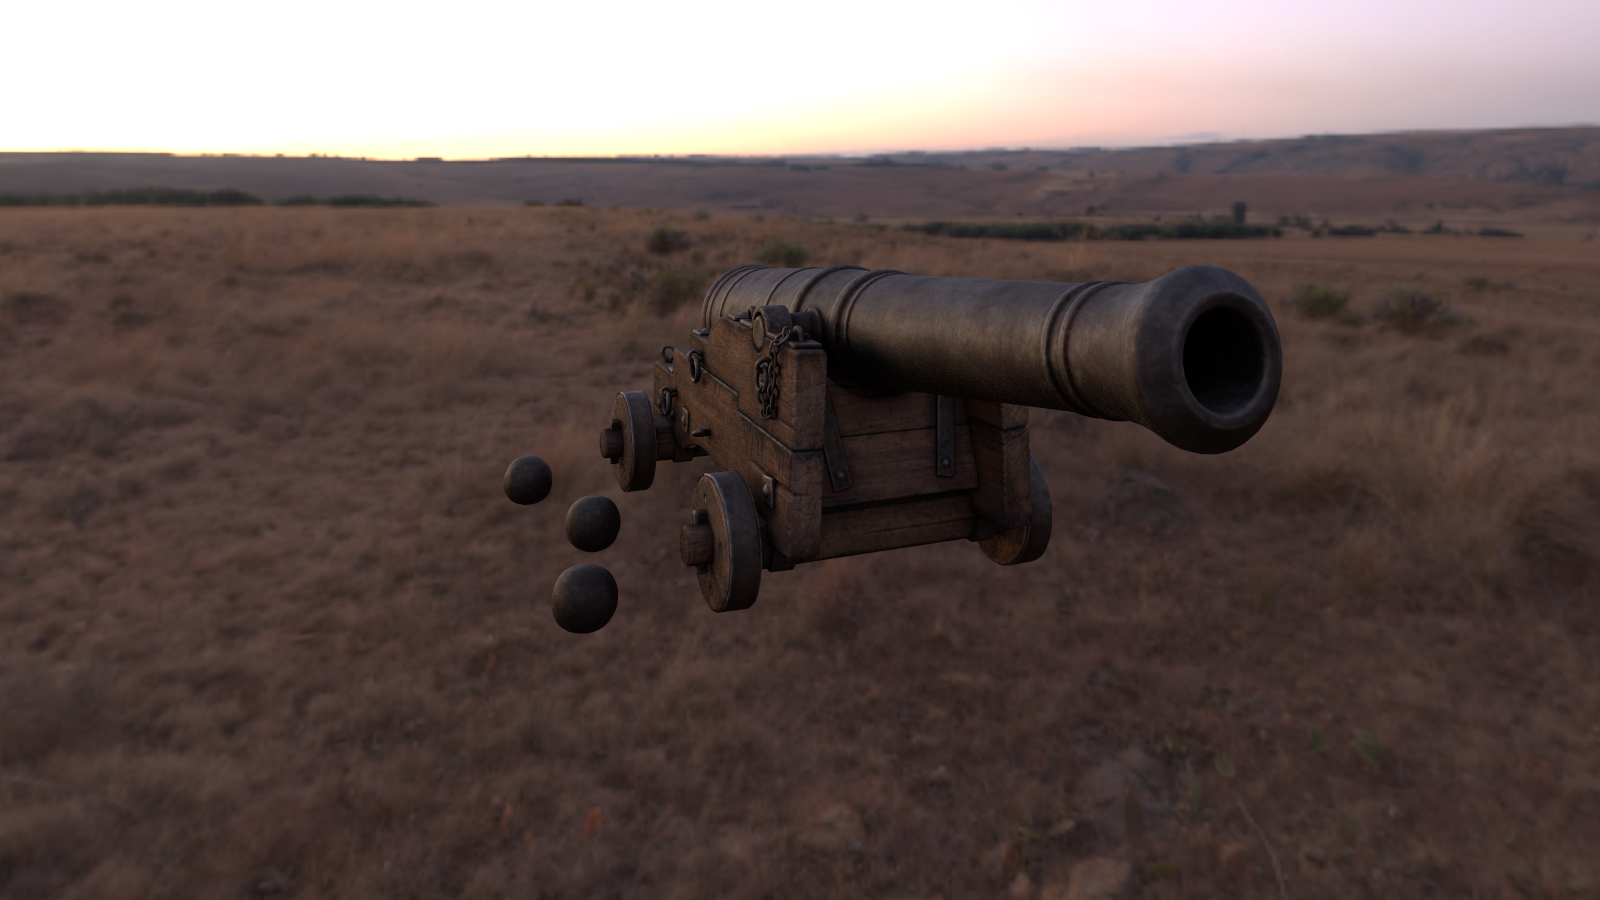
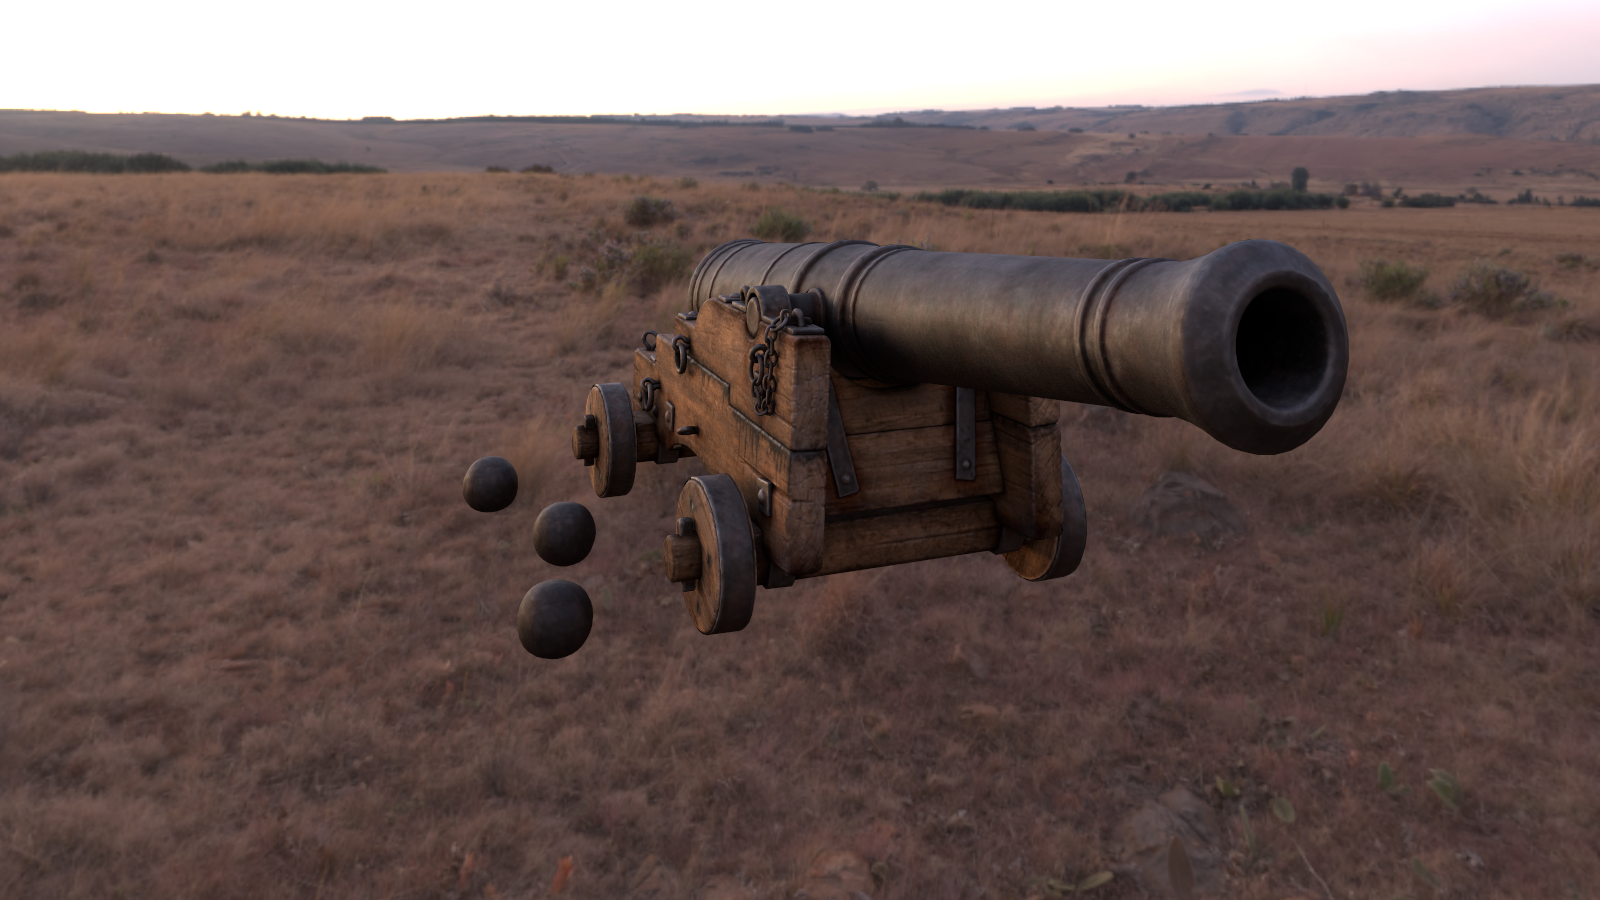
Update

diff --git a/src/renderer/main.cpp b/src/renderer/main.cpp
@@ -44,13 +44,13 @@ int main(int argc, char* argv[]) {
 
 		auto frameBuf = pathTracer->getFrameBuffer();
 		saveHDR(scene.window, frameBuf.get(), 3, saveDir + "/nagi_result_");
-		savePNG(scene.window, frameBuf.get(), 3, scene.config.gamma, saveDir + "/nagi_result_");
+		savePNG(scene.window, frameBuf.get(), 3, scene.config.exposure, scene.config.gamma, saveDir + "/nagi_result_");
 
 		if (scene.config.denoiser) {
 			std::unique_ptr<Denoiser> denoiser = std::make_unique<Denoiser>(scene, *pathTracer);
 			auto denoisedFrameBuf = denoiser->denoise();
 			saveHDR(scene.window, denoisedFrameBuf.get(), 3, saveDir + "/nagi_result_denoised_");
-			savePNG(scene.window, denoisedFrameBuf.get(), 3, scene.config.gamma, saveDir + "/nagi_result_denoised_");
+			savePNG(scene.window, denoisedFrameBuf.get(), 3, scene.config.exposure, scene.config.gamma, saveDir + "/nagi_result_denoised_");
 			denoiser.reset(nullptr);
 		}
 

diff --git a/src/gui/gui.hpp b/src/gui/gui.hpp
@@ -82,7 +82,7 @@ public:
 	WindowSize& wSize;
 	int step{ 1 };
 	int totalSpp;
-	float gamma;
+	float gamma, exposure;
 	int present{ 0 };
 	float sigmaN{ 64.f }, sigmaZ{ 1.f }, sigmaL{ 4.f };
 	bool denoiser{ false };
@@ -108,7 +108,7 @@ public:
 		timerStarted = false;
 		return t;
 	}
-	float denoiseTime;
+	float denoiseTime, denoiseTimeAvg;
 };
 
 }
